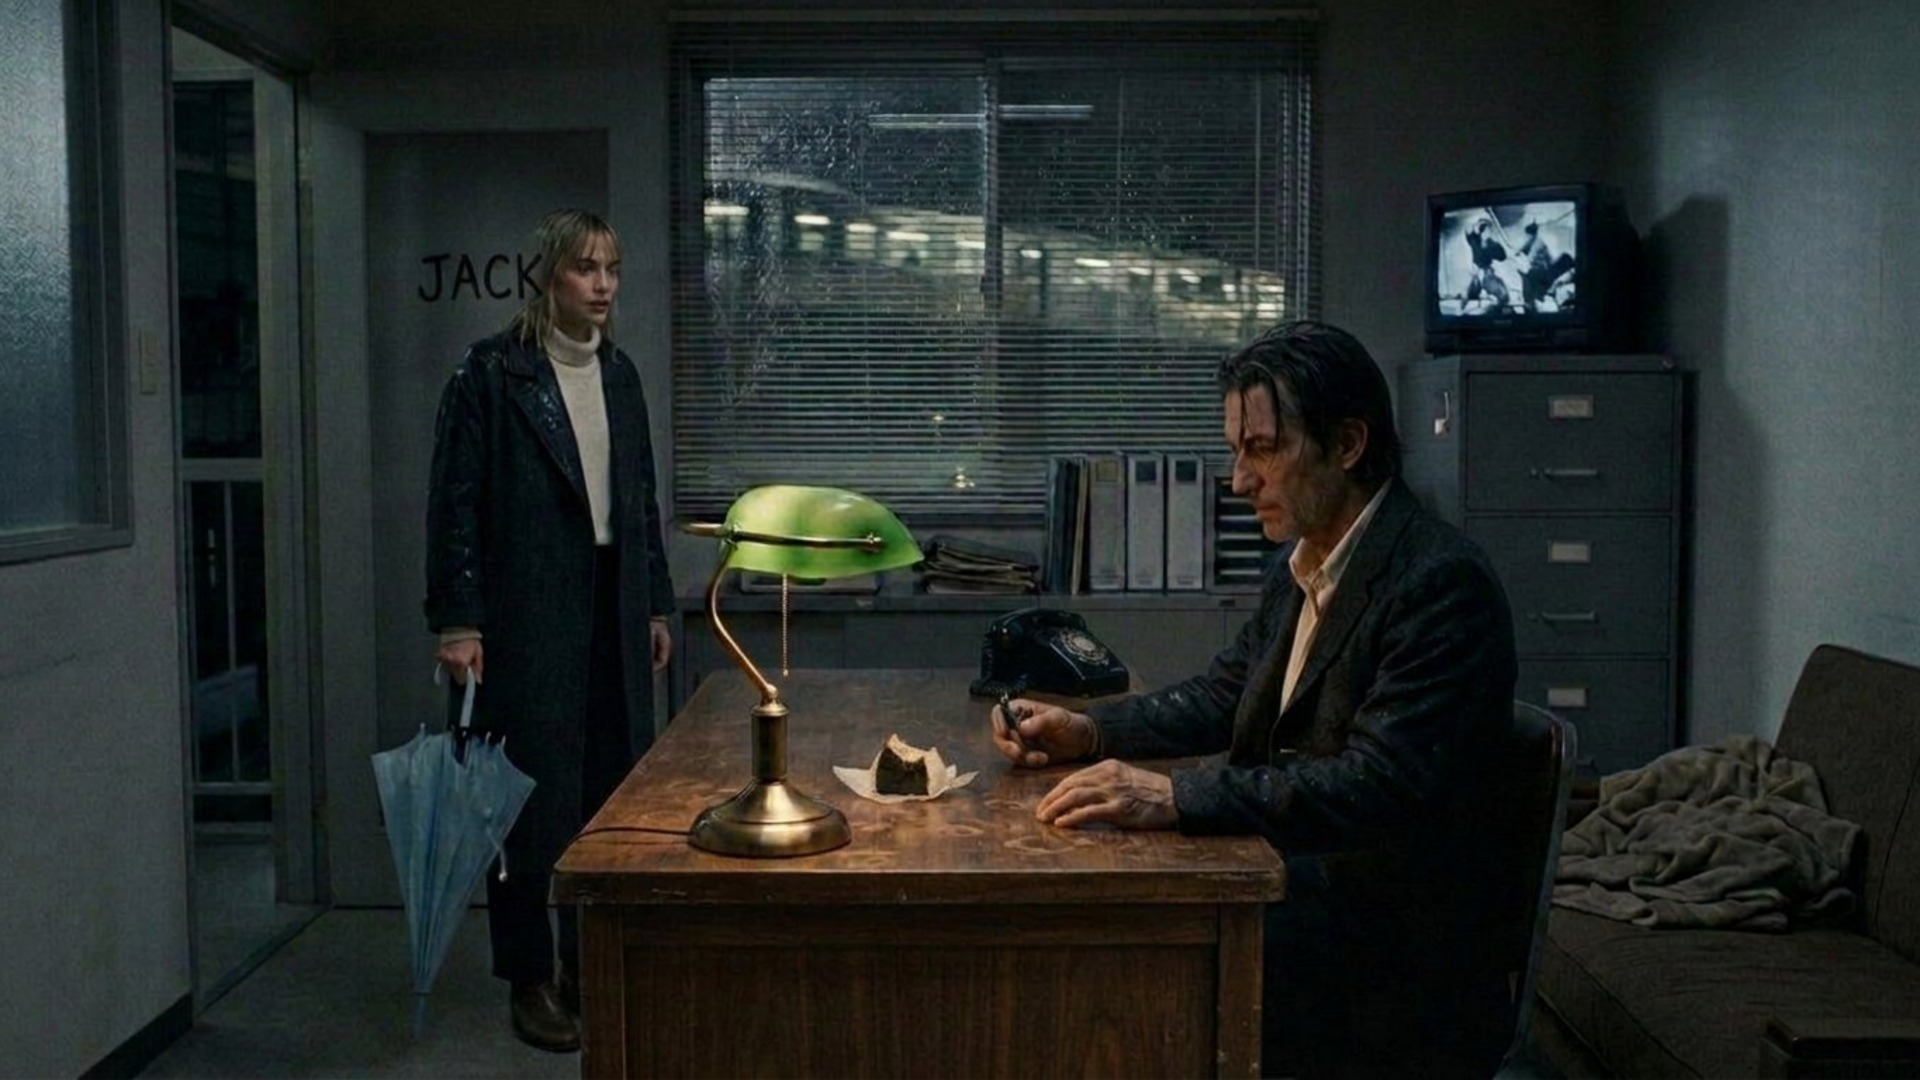
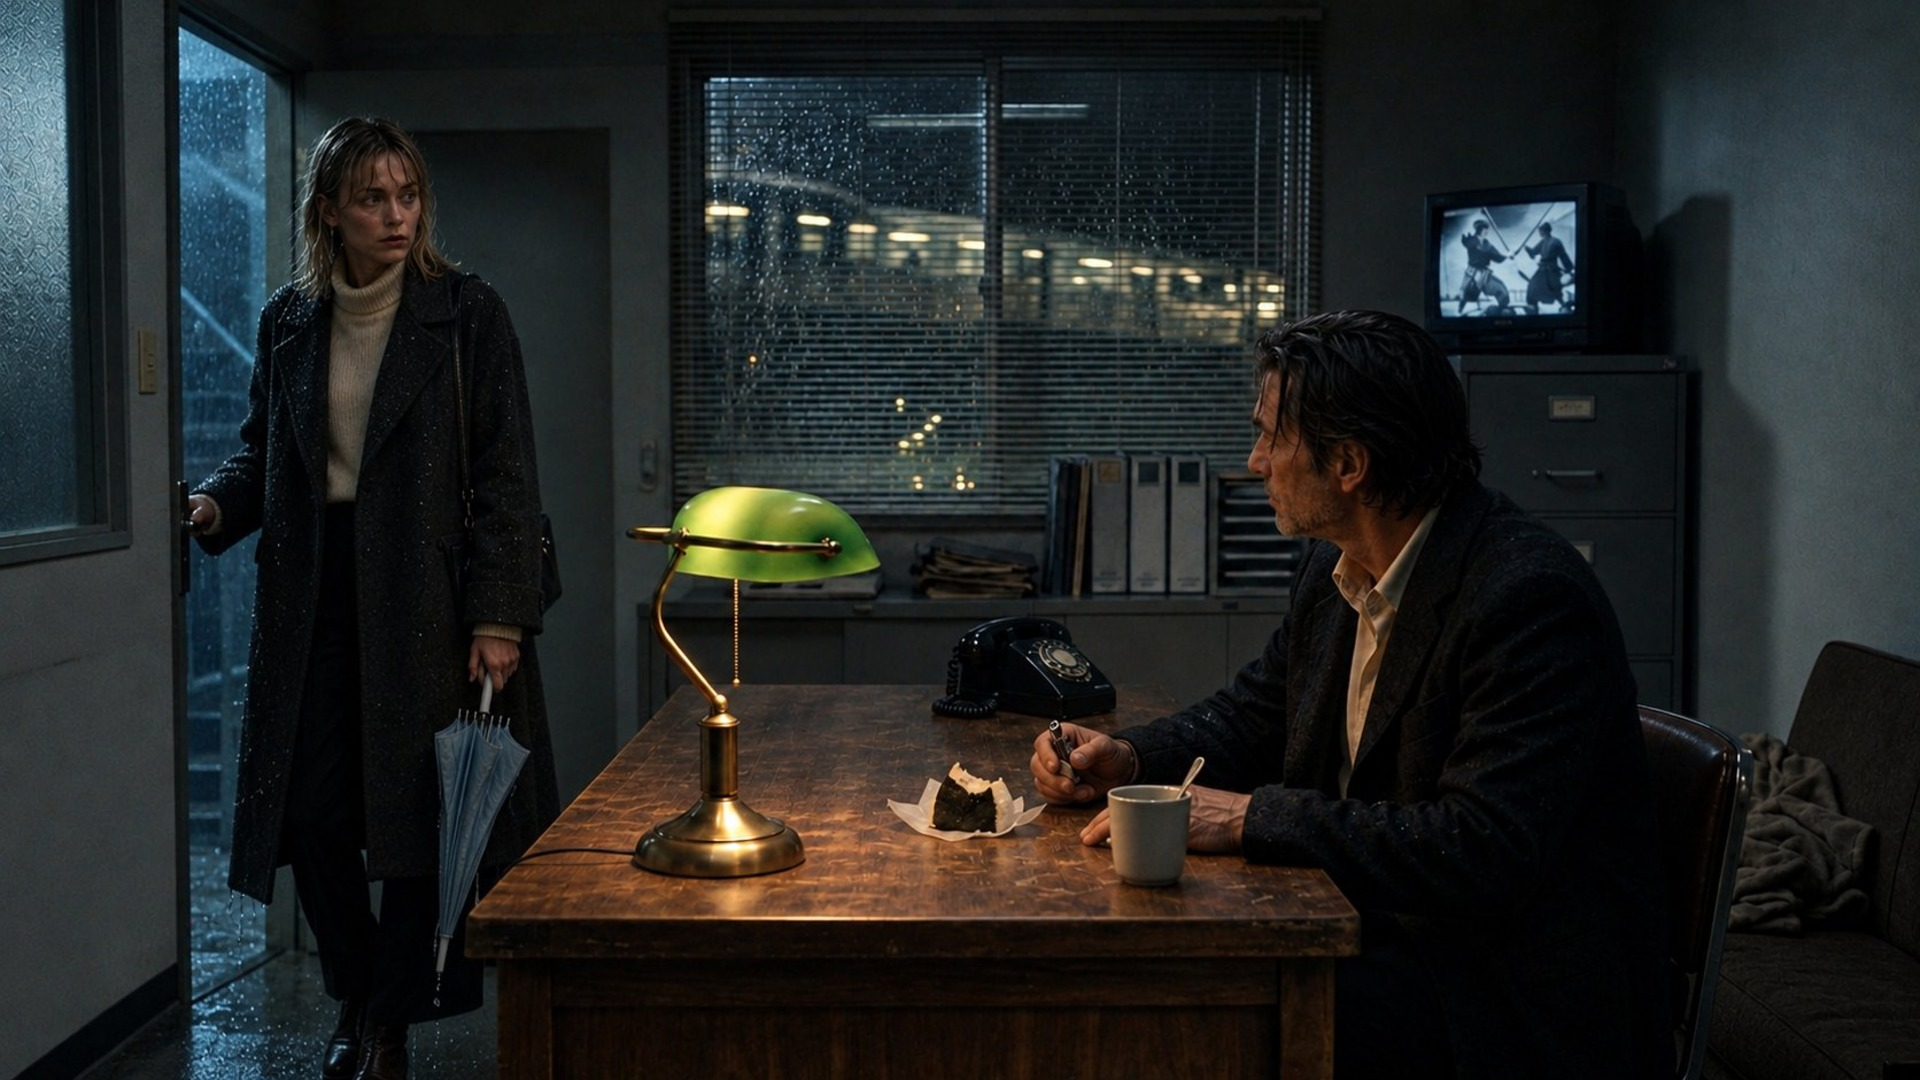
Shot 164: rebuild Vera's entrance against 415 and 243 (desk orientation, door position)

diff --git a/FILM.md b/FILM.md
@@ -9,6 +9,25 @@ One scene node per film scene; every shot is a dialogue beat's background, so th
 
 
 
+## Shot 164, "Depends who's calling": the office rebuilt (21 October 2026)
+
+Scene 10's **164** ("A knock on the frosted glass. Vera comes in, wet, the blue umbrella dripping.") was thrown out and
+made again. The director's notes on the way: the first pass put **the door in the wrong place**, and the second had
+**the desk at the wrong orientation to the shots around it**. The frame is now built against the scene's own pictures —
+`s10/415-four-days.jpg` for the desk's position and orientation, `s11/243-the-box.jpg` for the grey steel cupboard
+under the blinded window, `s10/417-at-the-door.jpg` for where the frosted-glass door sits — with Jack turned in his
+chair toward the door, his face readable.
+
+* `public/film/img/s10/164-depends-whos-calling.jpg` is the new frame, 1920×1080 (generated 1672×941, centre-cropped
+  to 16:9 and enlarged, never shrunk).
+* The frame it replaces is `public/film/img/archive/s10/164-depends-whos-calling--v2.jpg`; the older take was already
+  `archive/s10/164-depends-whos-calling--v1.jpg`. The retake as generated is
+  `public/film/img/retakes_2026_10_21/164-depends-whos-calling-r1.jpg`.
+* Story data and asset URLs are unchanged, so no builder run was needed. 164 has no depth map; its `pictureLook`
+  still puts a warm lamp glow at 42%/52% and the television's cool flicker at 78%/24% — move those two if the new
+  frame has the lamp or the set elsewhere.
+* Local replacement in this checkout — sync it into PlayFrame before the next `node tools/build-film-story.mjs`.
+
 ## The news reader on Vera's television (shot 386, 21 October 2026)
 
 Scene 4, **386 "At the window"** ("The old television murmurs to itself.") is the beat the NEWS REPORTER's line
